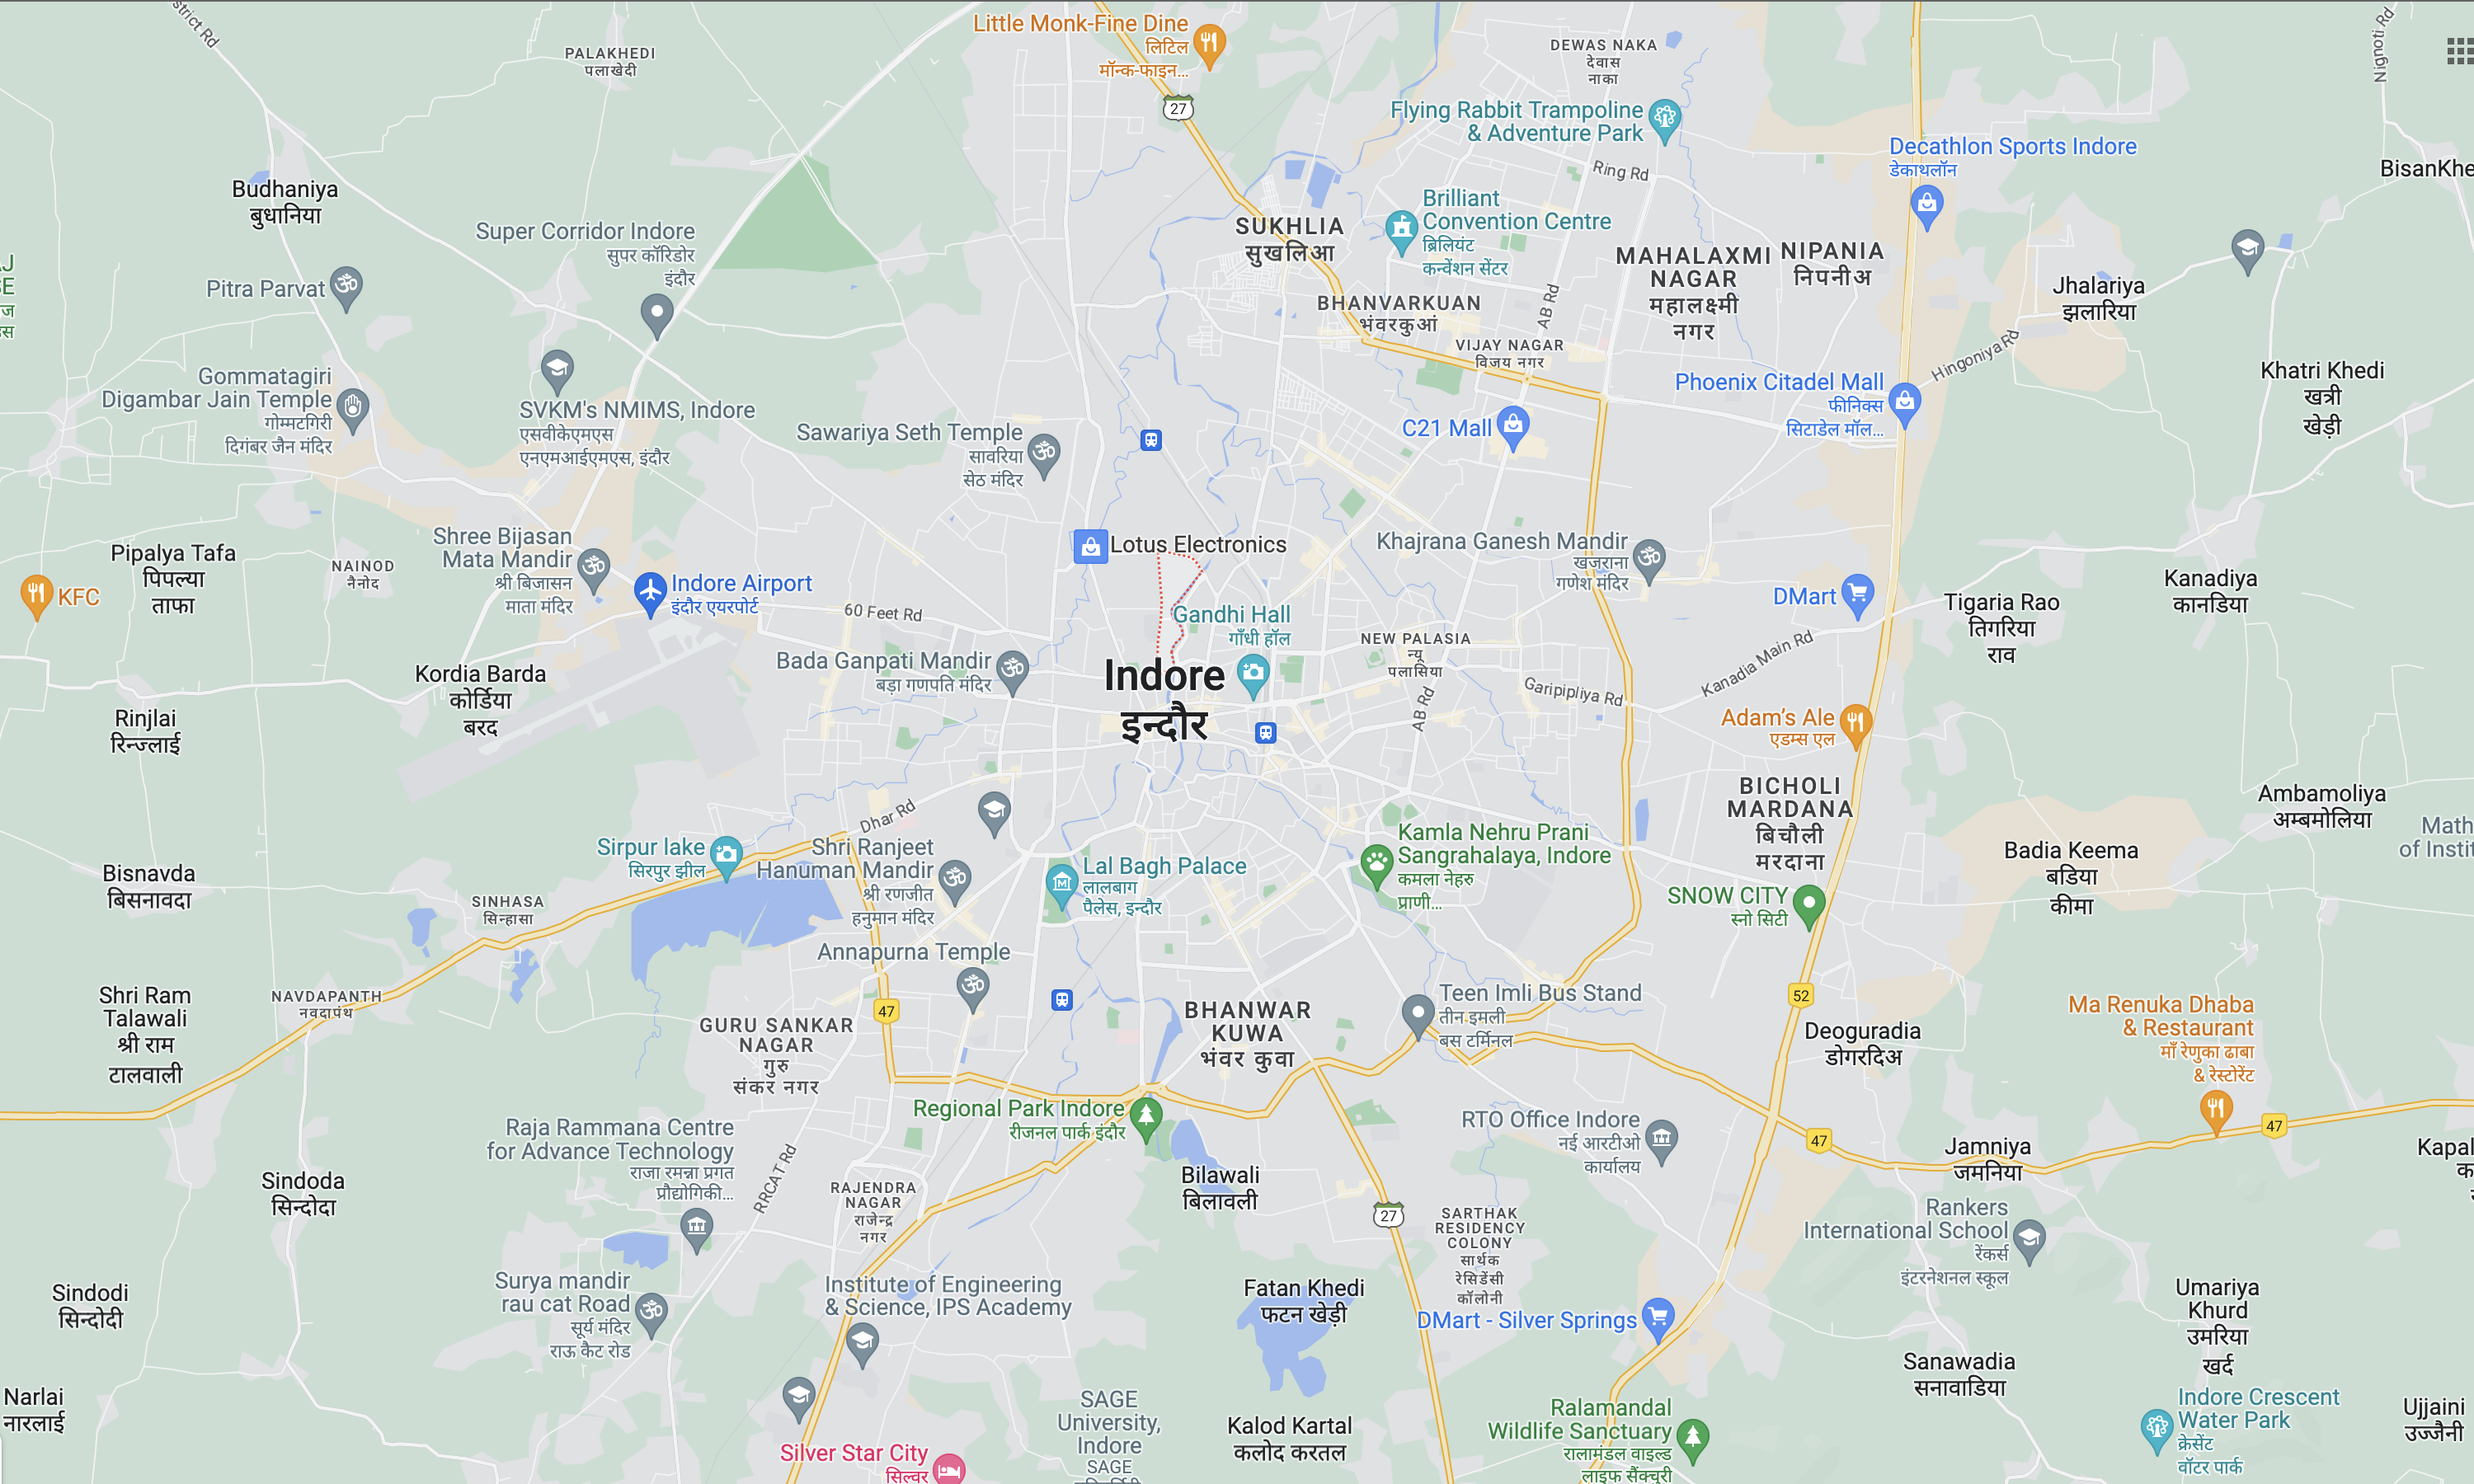
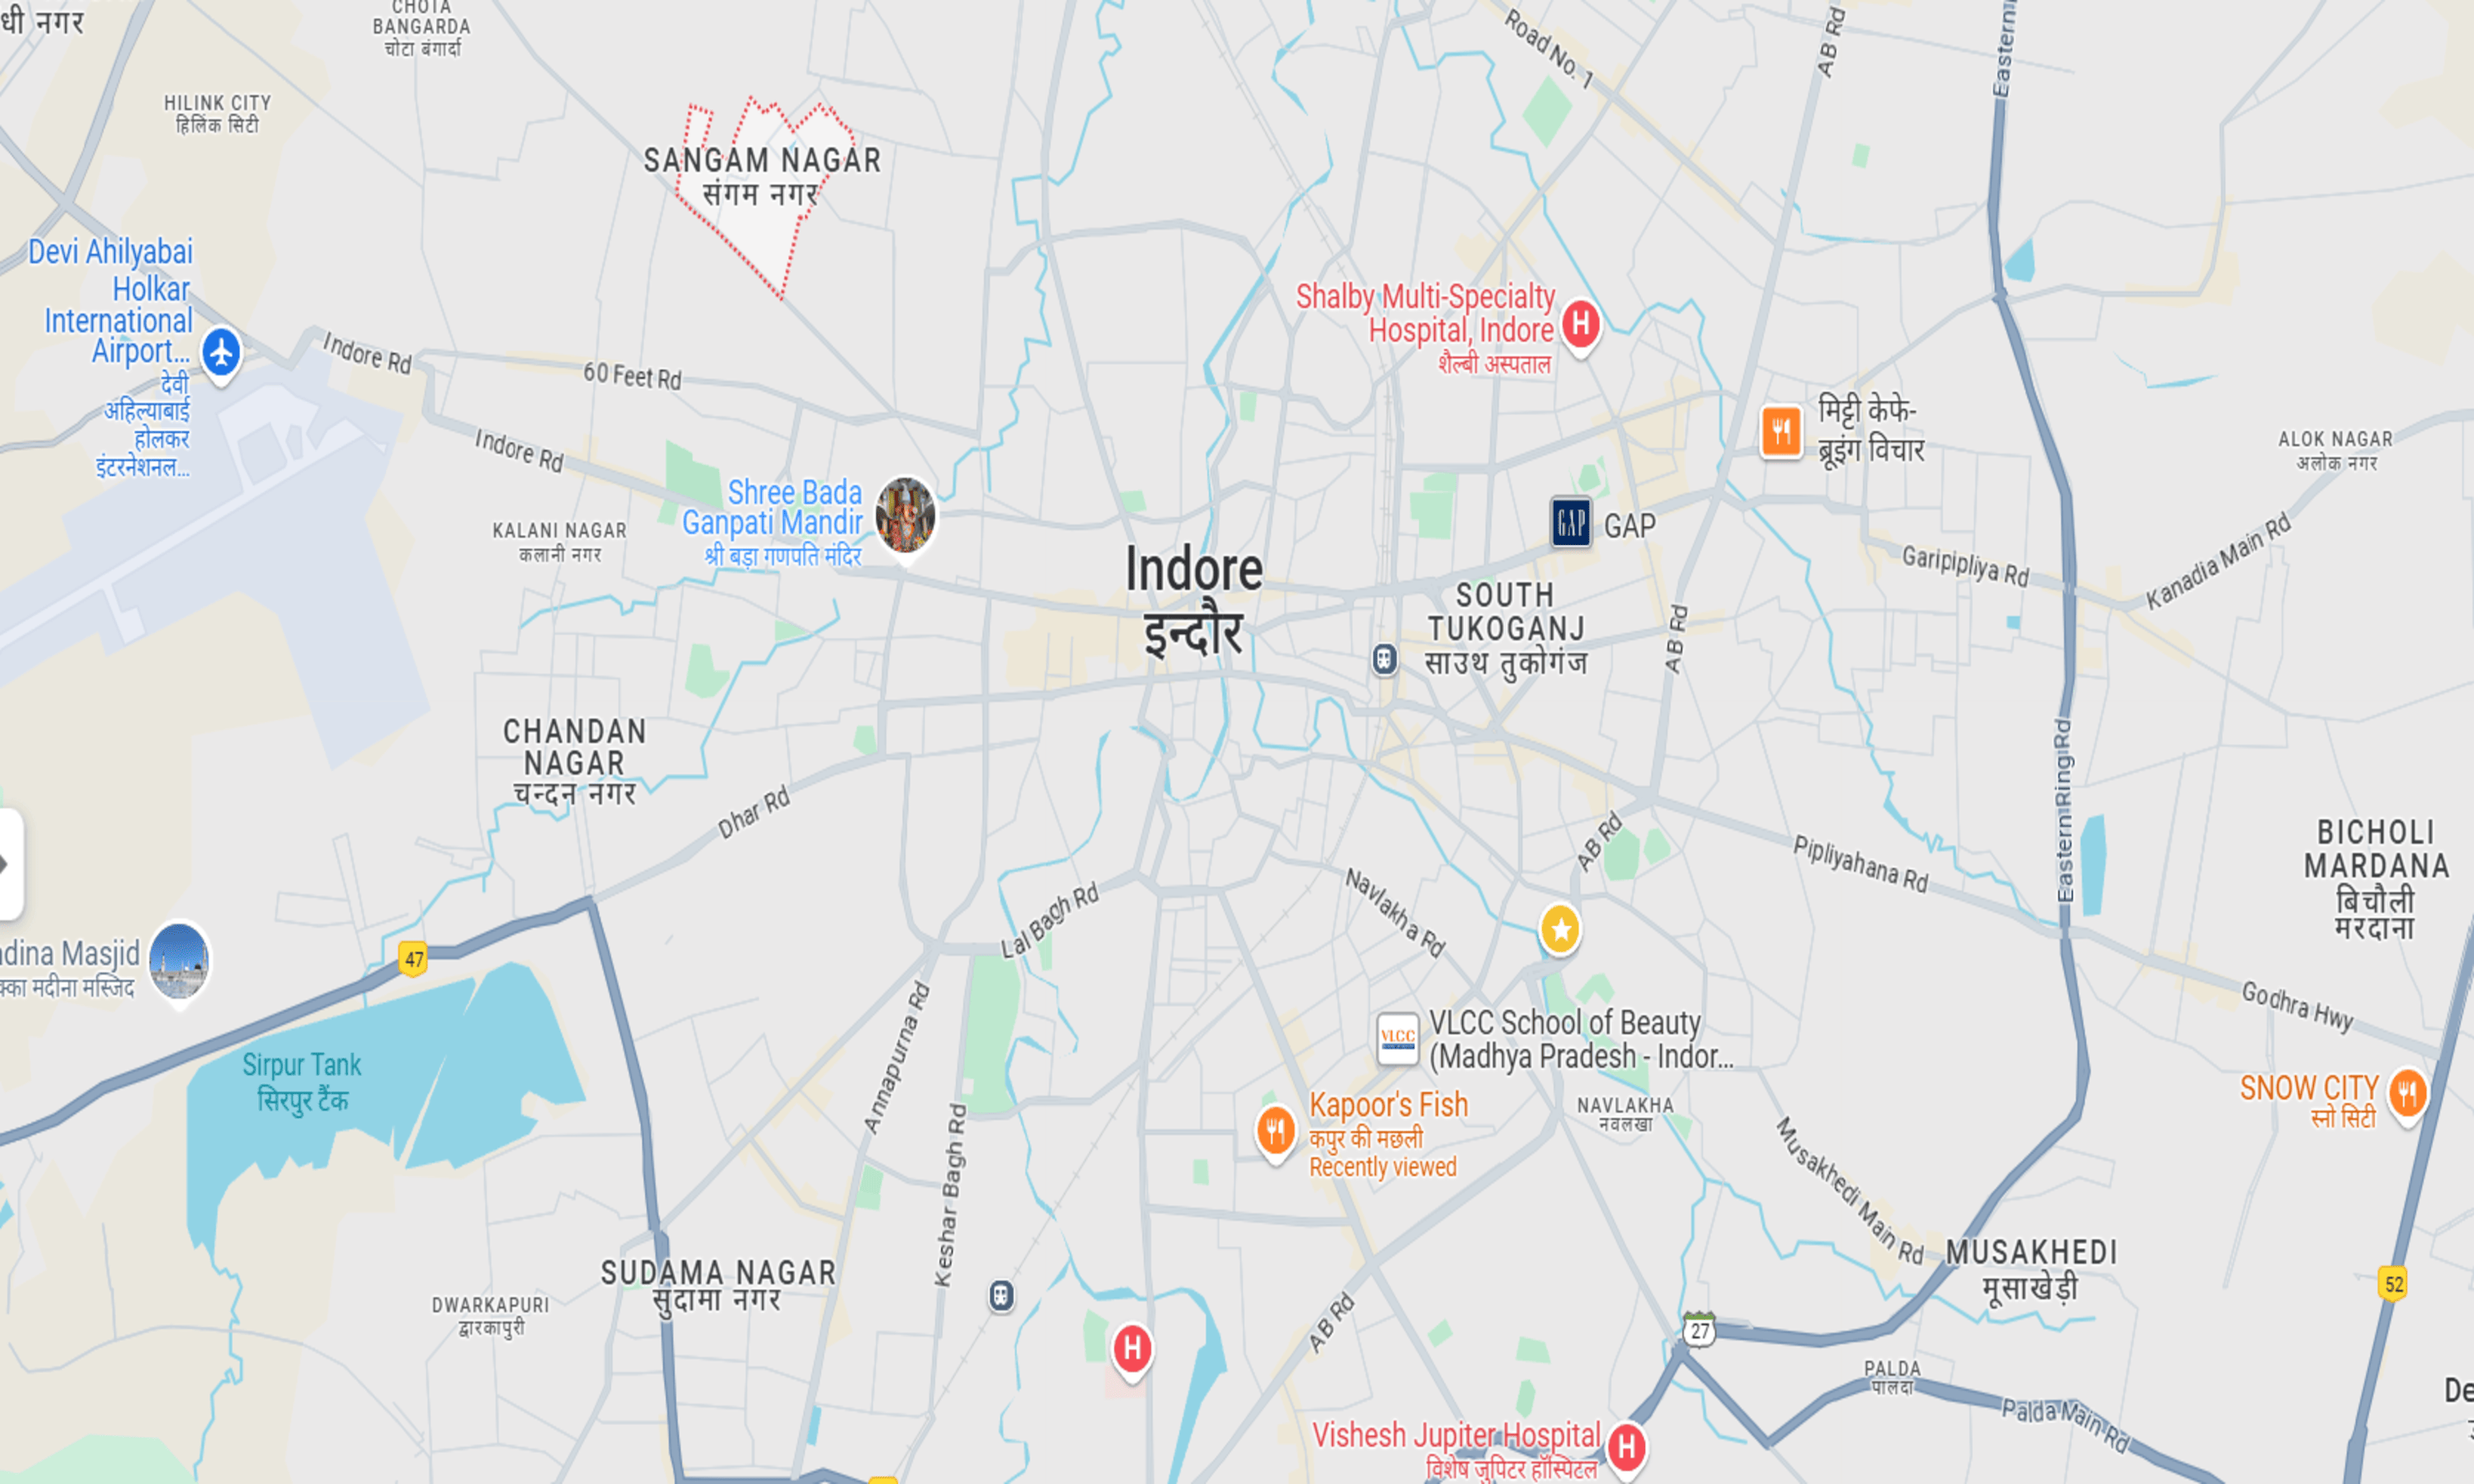
Fix: Address updation (issue #34)
1. Address is updated.
2. Affiliated map images has been updated wrt location.

diff --git a/src/components/contactUs/location/Location.jsx b/src/components/contactUs/location/Location.jsx
@@ -38,7 +38,7 @@ export const Location = () => {
           <CircularProgress color="inherit" />
         )} */}
         <a
-          href="https://www.google.com/maps/place/Kila+Maidan+Rd,+Kamala+Nehru+Nagar,+Indore,+Madhya+Pradesh"
+          href="https://maps.app.goo.gl/RSyoLcCh5SjBhYBb7"
           target="_blank"
           rel="noreferrer"
         >
@@ -47,7 +47,7 @@ export const Location = () => {
         </a>
       </MapWrapper>
       <CommonText style={{ fontWeight: "bold" }}>AOV Studios</CommonText>
-      <CommonText>Kila Maidan Road, Indore (452006)</CommonText>
+      <CommonText>Sangam Nagar, Indore (452006)</CommonText>
       <CommonText style={{ paddingBottom: "1rem" }}>MP, IN</CommonText>
       <CommonText>+91-7582898292</CommonText>
       <Email href="mailto:studiosaov@gmail.com">studiosaov@gmail.com</Email>
